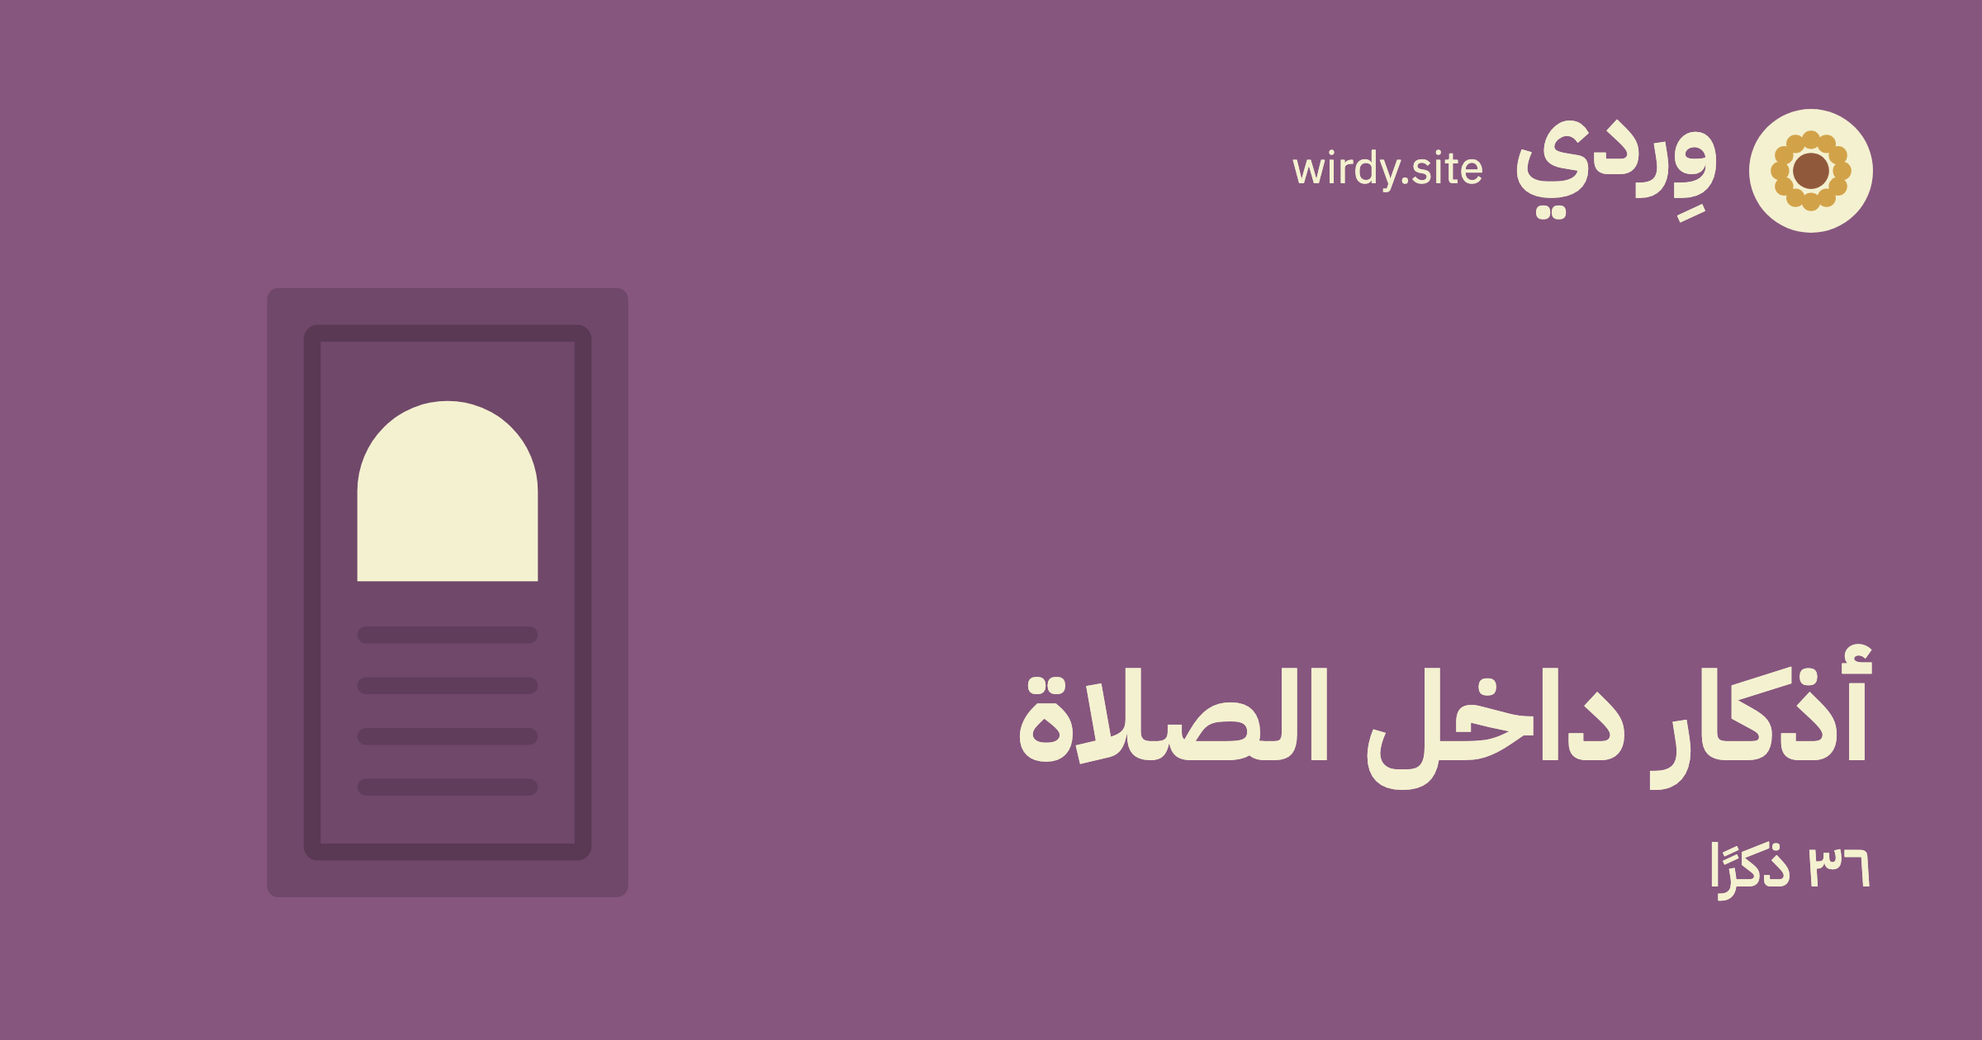
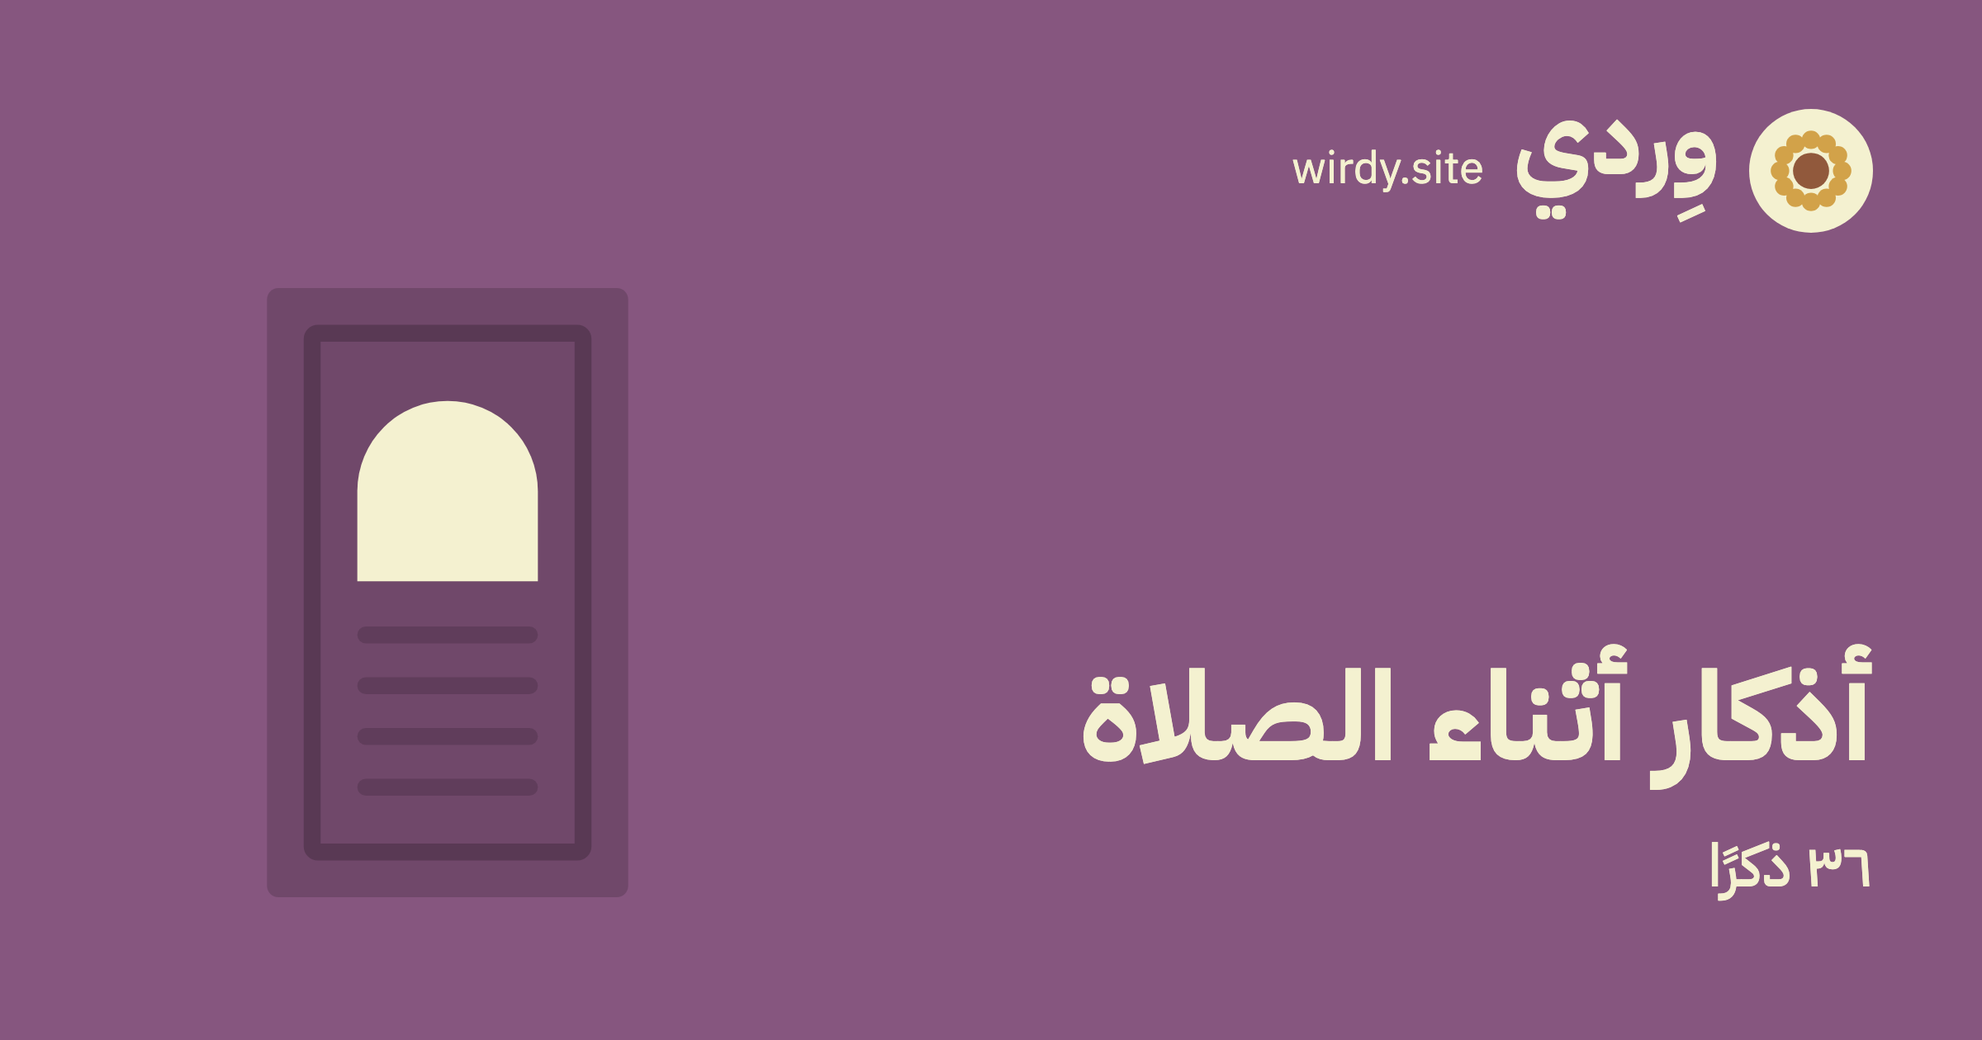
feat: name each section in two words, and describe it in three
The pages name a section in two words at most, with no «أذكار». The browser
tab, search engines, the sharing cards, and the notes keep a title that says
it. Search finds a section by either name.

The line under each name lists three things that are in the section, and
repeats no word of its name. The top of a dhikr never says its section twice.

The sharing cards that show a changed name are drawn again.

Changed region(s): [[0.5, 0.619, 0.8438, 0.7738]]

diff --git a/src/build.test.ts b/src/build.test.ts
@@ -259,8 +259,18 @@ describe('built site', () => {
 
   it('names the section over the title of a dhikr, as the way back to its place', () => {
     expect(own('nawm/ayat-al-kursi')).toMatch(
-      /<a class="banner__up" href="\/nawm\/#ayat-al-kursi">\s*<svg[\s\S]*?<span class="banner__up-label">أذكار النوم<\/span>/u
+      /<a class="banner__up" href="\/nawm\/#ayat-al-kursi">\s*<svg[\s\S]*?<span class="banner__up-label">عند النوم<\/span>/u
     );
+  });
+
+  it('says the section once at the top of a dhikr', () => {
+    for (const file of contentFiles) {
+      const path = file.replace(/\.md$/u, '').replace(/\/\d+-/u, '/');
+      const top = own(path).match(/<header class="banner[\s\S]*?<\/header>/u)![0];
+      const up = top.match(/<span class="banner__up-label">([^<]+)</u)![1];
+      const lede = top.match(/<p class="banner__lede">([^<]+)</u)![1];
+      expect(`${path}: ${lede}`).not.toBe(`${path}: ${up}`);
+    }
   });
 
   it('counts the adhkar of the time that shows', () => {
@@ -305,11 +315,11 @@ describe('built site', () => {
     const card = html.match(
       /<a class="occasion-card [^"]*" href="\/ma-lam-yathbut\/"[\s\S]*?<\/a>/u
     )![0];
-    expect(card).toContain('أذكار مشهورة مع حكم كل واحد منها');
+    expect(card).toContain('أذكار مشهورة، وحكم كل منها');
     expect(card).not.toMatch(/[٠-٩]/u);
 
     expect(own('ma-lam-yathbut')).toContain(
-      '<p class="banner__lede">أذكار مشهورة ضعّفها الألباني، أو ضعّف عددها أو وقتها</p>'
+      '<p class="banner__lede">أذكار مشهورة، وحكم كل منها</p>'
     );
   });
 
@@ -442,9 +452,9 @@ describe('built site', () => {
   });
 
   it('describes each occasion page with its count, in a snippet that fits the results page', () => {
-    for (const { id, heading } of OCCASIONS) {
+    for (const { id, title } of OCCASIONS) {
       const description = metaOf(pages[id]!, 'name', 'description')!;
-      expect(description.startsWith(`${heading}: ${adhkarLabel(countOf(id))} `)).toBe(true);
+      expect(description.startsWith(`${title}: ${adhkarLabel(countOf(id))} `)).toBe(true);
       expect(description.length).toBeGreaterThanOrEqual(90);
       expect(description.length).toBeLessThanOrEqual(160);
       expect(metaOf(pages[id]!, 'property', 'og:description')).toBe(description);
@@ -544,11 +554,11 @@ describe('built site', () => {
 
   it('gives each occasion page a breadcrumb from the home page, and the home page none', () => {
     expect(graphOf(html).some((node) => node['@type'] === 'BreadcrumbList')).toBe(false);
-    for (const { id, heading } of OCCASIONS) {
+    for (const { id, title } of OCCASIONS) {
       const crumbs = graphOf(pages[id]!).find((node) => node['@type'] === 'BreadcrumbList')!;
       expect(crumbs['itemListElement']).toEqual([
         { '@type': 'ListItem', position: 1, name: 'وِردي', item: 'https://wirdy.site/' },
-        { '@type': 'ListItem', position: 2, name: heading, item: `https://wirdy.site/${id}/` },
+        { '@type': 'ListItem', position: 2, name: title, item: `https://wirdy.site/${id}/` },
       ]);
     }
   });
@@ -573,7 +583,7 @@ describe('built site', () => {
     const manifest = JSON.parse(readFileSync(join(DIST, 'site.webmanifest'), 'utf8'));
     expect(manifest.id).toBe('/');
     expect(manifest.shortcuts).toEqual(
-      OCCASIONS.map(({ id, heading }) => ({ name: heading, url: `/${id}/` }))
+      OCCASIONS.map(({ id, title }) => ({ name: title, url: `/${id}/` }))
     );
   });
 
@@ -669,11 +679,11 @@ describe('built site', () => {
   it('shows the context of a dhikr under its name, and in parentheses in plain text', () => {
     const page = own('sabah-masaa/kalimat-allah-at-tammat');
     const full = 'أعوذ بكلمات الله التامات (في المساء)';
-    const { heading } = OCCASIONS.find(({ id }) => id === 'sabah-masaa')!;
+    const { title } = OCCASIONS.find(({ id }) => id === 'sabah-masaa')!;
     expect(page).toMatch(
       /<h1 class="banner__title">\s*أعوذ بكلمات الله التامات\s*<\/h1>\s*<p class="banner__lede">في المساء/u
     );
-    expect(page).toContain(`<title>${full} | ${heading} | ${SITE.name}</title>`);
+    expect(page).toContain(`<title>${full} | ${title} | ${SITE.name}</title>`);
     expect(page).toContain(`data-share-title="${full}"`);
     const crumbs = graphOf(page).find((node) => node['@type'] === 'BreadcrumbList')!;
     expect((crumbs['itemListElement'] as { name: string }[]).at(-1)!.name).toBe(full);

diff --git a/src/lib/occasions.ts b/src/lib/occasions.ts
@@ -2,14 +2,30 @@ import { Array, Record } from 'effect';
 import { toneOf } from './tone';
 
 const SECTIONS = {
-  'sabah-masaa': { heading: 'أذكار الصباح والمساء', lede: 'ما يقال حين تصبح وحين تمسي' },
-  masjid: { heading: 'أذكار الأذان والمسجد', lede: 'الأذان، والوضوء، والمسجد' },
-  'fi-al-salah': { heading: 'أذكار داخل الصلاة', lede: 'من الاستفتاح إلى التشهد، والوتر' },
-  salah: { heading: 'أذكار أدبار الصلوات', lede: 'بعد السلام: تسبيح وقراءة ودعاء' },
-  nawm: { heading: 'أذكار النوم', lede: 'عند الفراش، وآخر ما يقال' },
-  istiqaz: { heading: 'أذكار الاستيقاظ', lede: 'عند الاستيقاظ، وما يعرض في الليل' },
-  mutlaq: { heading: 'أذكار عامة', lede: 'تسبيح وتهليل واستغفار ودعاء' },
-  ahwal: { heading: 'أذكار الأحوال', lede: 'الطعام، والسفر، والكرب، وغيرها' },
+  'sabah-masaa': {
+    heading: 'الصباح والمساء',
+    title: 'أذكار الصباح والمساء',
+    lede: 'القرآن، والاستغفار، والتسبيح',
+  },
+  masjid: {
+    heading: 'الأذان والمسجد',
+    title: 'أذكار الأذان والمسجد',
+    lede: 'إجابة المؤذن، والوضوء، والدخول',
+  },
+  'fi-al-salah': {
+    heading: 'أثناء الصلاة',
+    title: 'أذكار أثناء الصلاة',
+    lede: 'الركوع، والسجود، والتشهد',
+  },
+  salah: { heading: 'بعد الصلاة', title: 'أذكار بعد الصلاة', lede: 'التسبيح، والقرآن، والدعاء' },
+  nawm: { heading: 'عند النوم', title: 'أذكار النوم', lede: 'القرآن، والتسبيح، وآخر ما يقال' },
+  istiqaz: {
+    heading: 'عند الاستيقاظ',
+    title: 'أذكار الاستيقاظ',
+    lede: 'يقظة الليل، والفزع، والرؤيا المكروهة',
+  },
+  mutlaq: { heading: 'كل وقت', title: 'أذكار كل وقت', lede: 'التسبيح، والتهليل، والاستغفار' },
+  ahwal: { heading: 'أحوال متفرقة', title: 'أذكار الأحوال', lede: 'الطعام، والسفر، والكرب' },
 } as const;
 
 export type Occasion = keyof typeof SECTIONS;
@@ -17,6 +33,7 @@ export type Occasion = keyof typeof SECTIONS;
 export type Section = {
   readonly id: Occasion;
   readonly heading: string;
+  readonly title: string;
   readonly lede: string;
   readonly color: string;
 };

diff --git a/src/lib/collection.ts b/src/lib/collection.ts
@@ -63,7 +63,7 @@ export const occasionTiles: Effect.Effect<ReadonlyArray<Tile>> = Effect.forEach(
 export const sectionTiles: Effect.Effect<ReadonlyArray<Tile>> = Effect.map(
   occasionTiles,
   (tiles) => {
-    const { heading, color, note, path: href } = UNPROVEN;
+    const { heading, color, lede: note, path: href } = UNPROVEN;
     return [...tiles, { id: 'unproven', heading, color, note, href }];
   }
 );
@@ -73,8 +73,11 @@ function shownAyat(data: Dhikr, text: string): string {
   return suwar.flatMap((ayat) => (data.ayat === 'fold' ? foldOf(ayat).shown : ayat)).join(' ');
 }
 
+const placeOf = ({ heading, title }: { readonly heading: string; readonly title: string }) =>
+  title.includes(heading) ? title : `${title}، ${heading}`;
+
 const adhkarRow = (
-  { heading, color, id: emblem }: (typeof OCCASIONS)[number],
+  section: (typeof OCCASIONS)[number],
   { id, data, body }: AdhkarEntry
 ): Effect.Effect<SearchRow, MalformedMarker> =>
   Effect.gen(function* () {
@@ -85,9 +88,9 @@ const adhkarRow = (
       title: fullTitle(data),
       words,
       ...Option.match(also, { onNone: () => ({}), onSome: (evening) => ({ also: evening }) }),
-      heading,
-      color,
-      emblem,
+      heading: placeOf(section),
+      color: section.color,
+      emblem: section.id,
       ...(data.group !== undefined && { group: data.group }),
       ...(data.quran && { quran: true }),
       href: dhikrAnchor(data.occasion, slugOf(id)),
@@ -104,7 +107,7 @@ export const searchRows: Effect.Effect<ReadonlyArray<SearchRow>, MalformedMarker
     const unproven = Array.map(yield* unprovenEntries, ({ id, data, body }): SearchRow => ({
       title: data.what,
       words: bodyOf({ body }).trim(),
-      heading: UNPROVEN.heading,
+      heading: placeOf(UNPROVEN),
       color: UNPROVEN.color,
       emblem: 'unproven',
       ruling: data.takhrij.ruling,

diff --git a/scripts/opengraph/build.ts b/scripts/opengraph/build.ts
@@ -55,7 +55,7 @@ body{background:${PALETTE.paper};color:${PALETTE.ink};display:flex;flex-directio
 <div class="tiles">${tiles}</div>
 </body></html>`;
 
-const occasion = ({ id, heading, color }: Section, count: number) => `${head}
+const occasion = ({ id, title, color }: Section, count: number) => `${head}
 body{background:${color};color:${PALETTE.eggshell};display:grid;
   grid-template-columns:minmax(0,1fr) 820px;grid-template-rows:auto 1fr;column-gap:96px}
 .brand{grid-column:1/-1;display:flex;align-items:center;gap:36px}
@@ -69,7 +69,7 @@ body{background:${color};color:${PALETTE.eggshell};display:grid;
 .emblem svg{width:100%;height:100%}
 </style></head><body>
 <div class="brand"><span class="disc">${markSvg()}</span><span class="name">${SITE.name}</span><span class="domain">wirdy.site</span></div>
-<div class="text"><p class="heading">${heading}</p><p class="count">${adhkarLabel(count)}</p></div>
+<div class="text"><p class="heading">${title}</p><p class="count">${adhkarLabel(count)}</p></div>
 <div class="emblem">${emblemSvg(id)}</div>
 </body></html>`;
 

diff --git a/src/lib/occasions.test.ts b/src/lib/occasions.test.ts
@@ -4,6 +4,16 @@ import { PALETTE } from './palette';
 import { UNPROVEN } from './site';
 import { contrast, hueOf } from './tone';
 
+const wordsOf = (text: string) => text.split(/[ ،]+/u).map((word) => word.replace(/^و?(ال)?/u, ''));
+
+describe('the line of an occasion', () => {
+  it('repeats no word of its heading', () => {
+    for (const { heading, lede } of OCCASIONS) {
+      expect(wordsOf(lede).filter((word) => wordsOf(heading).includes(word))).toEqual([]);
+    }
+  });
+});
+
 const COLORS = [...OCCASIONS.map(({ id, color }) => [id, color]), ['unproven', UNPROVEN.color]];
 
 describe('the occasion colors', () => {

diff --git a/src/pages/site.webmanifest.ts b/src/pages/site.webmanifest.ts
@@ -21,7 +21,7 @@ export const GET: APIRoute = ({ site }) => {
       { src: '/icon-512.png', sizes: '512x512', type: 'image/png', purpose: 'any' },
       { src: '/icon-512.png', sizes: '512x512', type: 'image/png', purpose: 'maskable' },
     ],
-    shortcuts: OCCASIONS.map(({ id, heading }) => ({ name: heading, url: `/${id}/` })),
+    shortcuts: OCCASIONS.map(({ id, title }) => ({ name: title, url: `/${id}/` })),
   };
   return new Response(JSON.stringify(manifest, null, 2), {
     headers: { 'content-type': 'application/manifest+json; charset=utf-8' },

diff --git a/src/lib/sound.ts b/src/lib/sound.ts
@@ -8,10 +8,10 @@ export type SoundPlace = {
   readonly after: string;
 };
 
-const NAMES: ReadonlyArray<readonly [name: string, occasion: Occasion]> = [
-  ...Array.map(OCCASIONS, ({ heading, id }) => [heading, id] as const),
-  ['الأذكار العامة', 'mutlaq'],
-];
+const NAMES: ReadonlyArray<readonly [name: string, occasion: Occasion]> = Array.map(
+  OCCASIONS,
+  ({ title, id }) => [title, id] as const
+);
 
 export function soundPlace(sound: string): Option.Option<SoundPlace> {
   return Array.findFirst(NAMES, ([name, occasion]) => {

diff --git a/src/lib/site.ts b/src/lib/site.ts
@@ -10,8 +10,8 @@ export const SITE = {
 
 export const UNPROVEN = {
   path: '/ma-lam-yathbut/',
-  heading: 'ما لم يثبت',
-  lede: 'أذكار مشهورة ضعّفها الألباني، أو ضعّف عددها أو وقتها',
-  note: 'أذكار مشهورة مع حكم كل واحد منها',
+  heading: 'لم يثبت',
+  title: 'ما لم يثبت',
+  lede: 'أذكار مشهورة، وحكم كل منها',
   color: NEUTRAL,
 } as const;

diff --git a/src/lib/sound.test.ts b/src/lib/sound.test.ts
@@ -12,8 +12,8 @@ describe('soundPlace', () => {
     });
   });
 
-  it('knows أذكار عامة by its name in a sentence', () => {
-    expect(Option.getOrNull(soundPlace('بغير هذه الزيادة في الأذكار العامة.'))?.path).toBe(
+  it('names a section by its full title', () => {
+    expect(Option.getOrNull(soundPlace('بغير هذه الزيادة في أذكار كل وقت.'))?.path).toBe(
       '/mutlaq/'
     );
   });

diff --git a/src/lib/card.ts b/src/lib/card.ts
@@ -69,7 +69,7 @@ export const cardOf = (
 ): Effect.Effect<Card, MalformedMarker | PhraseCountMismatch> =>
   Effect.gen(function* () {
     const text = body.trim();
-    const { heading, color } = sectionOf(data.occasion);
+    const { title: heading, color } = sectionOf(data.occasion);
     const suwar = suwarOf(data, text);
     const { blocks, cut } = yield* bodyOf(data, text);
     const rest = Option.isSome(suwar) && cut ? [REST] : [];

diff --git a/docs/emblem-ideas.md b/docs/emblem-ideas.md
@@ -11,7 +11,7 @@ To use one:
 3. Run `bun run opengraph` and `bun run opengraph:adhkar`, because the sharing cards draw the emblems.
 4. Remove it from this page.
 
-## أذكار الصباح والمساء (`sabah-masaa`)
+## الصباح والمساء (`sabah-masaa`)
 
 ### The horizon
 
@@ -69,7 +69,7 @@ A wall with its battlements and the sun sitting on it. The adhkar of the morning
 
 From the content: «وكان في حرز من الشيطان حتى يمسي» (لا إله إلا الله وحده، in this occasion).
 
-## أذكار الأذان والمسجد (`masjid`)
+## الأذان والمسجد (`masjid`)
 
 ### The call
 
@@ -101,7 +101,7 @@ A dome on its drum, three small windows below, and a lit crescent on its point. 
 
 «لو يعلم الناس ما في النداء والصف الأول». Rows of worshippers behind the mihrab, and the first row lit.
 
-## أذكار داخل الصلاة (`fi-al-salah`)
+## أثناء الصلاة (`fi-al-salah`)
 
 ### Standing, bowing, prostrating
 
@@ -121,7 +121,7 @@ The three postures of a rakʿah, read from the right. The prostration is lit: «
 
 Rows around the Kaʿbah seen from above: squares inside squares, all facing one lit centre. Every prayer turns to it.
 
-## أذكار أدبار الصلوات (`salah`)
+## بعد الصلاة (`salah`)
 
 ### Three rings of beads
 
@@ -179,7 +179,7 @@ Three lanes, and the lit one is ahead of the rest. A few words after each prayer
 
 From the content: «تدركون من كان قبلكم، وتسبقون من جاء بعدكم» (التسبيح عشرًا).
 
-## أذكار النوم (`nawm`)
+## عند النوم (`nawm`)
 
 ### The closing eye
 
@@ -193,7 +193,7 @@ From the content: «تدركون من كان قبلكم، وتسبقون من ج
 
 «والليل إذا يغشى». Bands of dark coming down from the top of the sky, each one lighter than the one above it, and a crescent low in the last light.
 
-## أذكار الاستيقاظ (`istiqaz`)
+## عند الاستيقاظ (`istiqaz`)
 
 ### The opening eye
 
@@ -213,7 +213,7 @@ A window with its shutters pushed open, and the lit sun of the new day behind th
 
 «يعقد الشيطان على قافية رأس أحدكم ثلاث عقد». A cord with three knots. Remembering Allah on waking loosens the first, and it is lit and open.
 
-## أذكار عامة (`mutlaq`)
+## كل وقت (`mutlaq`)
 
 ### Without end
 
@@ -271,7 +271,7 @@ Four lit squares for the four words that remain, and around them two rings of do
 
 From the content: الباقيات الصالحات, «أحبّ إليّ مما طلعت عليه الشمس». سبحان الله، والحمد لله، ولا إله إلا الله، والله أكبر.
 
-## أذكار الأحوال (`ahwal`)
+## أحوال متفرقة (`ahwal`)
 
 ### The compass
 

diff --git a/docs/design-system.md b/docs/design-system.md
@@ -83,7 +83,7 @@ The foot of an `Entry` is a list of labelled rows, in the same order on every ca
 
 There is one bar, with the same places on every page and at every width: the sunflower and «وِردي» lead home at the start, and the icons of the sections and of search are at the end. The home page leaves out the sections, because it shows them. The bar is a solid color: the paper, or the color of the section, with the mark and the icons in eggshell. The menu of the sections does not dim the page behind it.
 
-The top of a page has one height at each width, `--size-banner` and `--size-banner-wide`. It holds a short line (the count, or the section of a dhikr as the way back to its place), the title, and one line that describes the page. A title of more than 24 letters takes a smaller size. The line of a section is `lede` in `src/lib/occasions.ts`. The line of a dhikr is its `context`, or its `group`, and its count when it is more than one. It never states a virtue or a ruling. The home page has one sentence in place of them, at the same height.
+The top of a page has one height at each width, `--size-banner` and `--size-banner-wide`. It holds a short line (the count, or the section of a dhikr as the way back to its place), the title, and one line that describes the page. A title of more than 24 letters takes a smaller size. A section has two names in `src/lib/occasions.ts`: `heading`, of two words at most, for the pages, and `title`, which says «أذكار», for the browser tab, search engines, the sharing cards, and the notes that name a section. «لم يثبت» has the title «ما لم يثبت». The line of a section is its `lede`: three things that are in it, in the order of the page, and no word of its `heading`. The line of a dhikr is its `context`, or its `group`, and its count when it is more than one. It never repeats the `heading` above the title, and falls back to the `title` of the section. It never states a virtue or a ruling. The home page has one sentence in place of them, at the same height.
 
 The cards of the sections are rows on a phone, under a large first card. On a wide screen they sit in four columns, and in each row one card is two columns wide: the first, then the last, then the middle.
 
